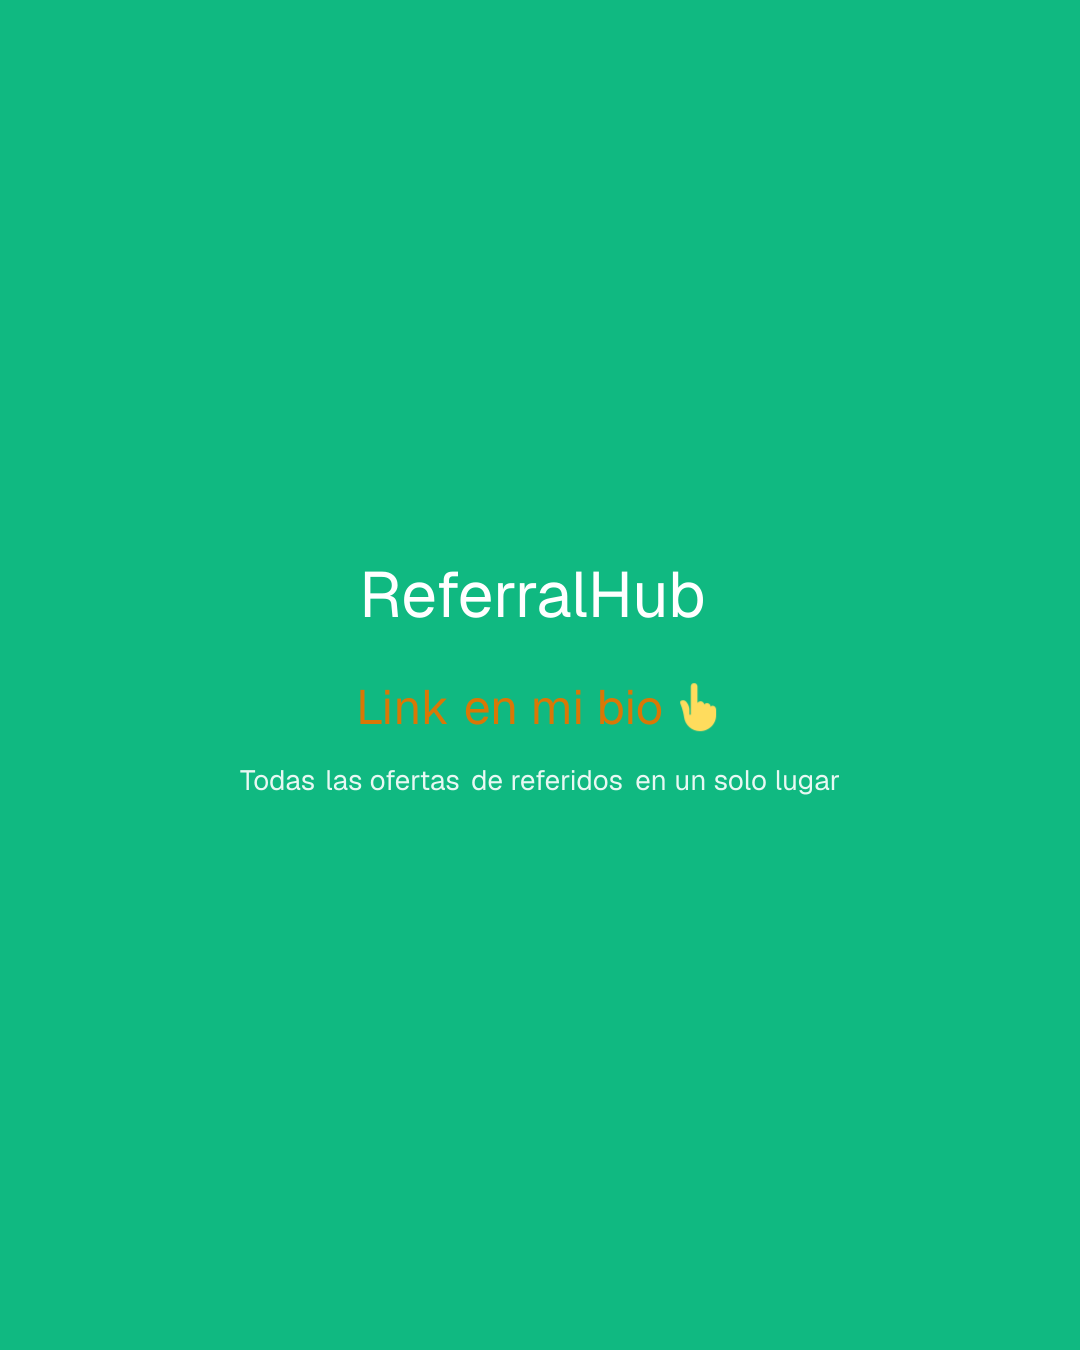
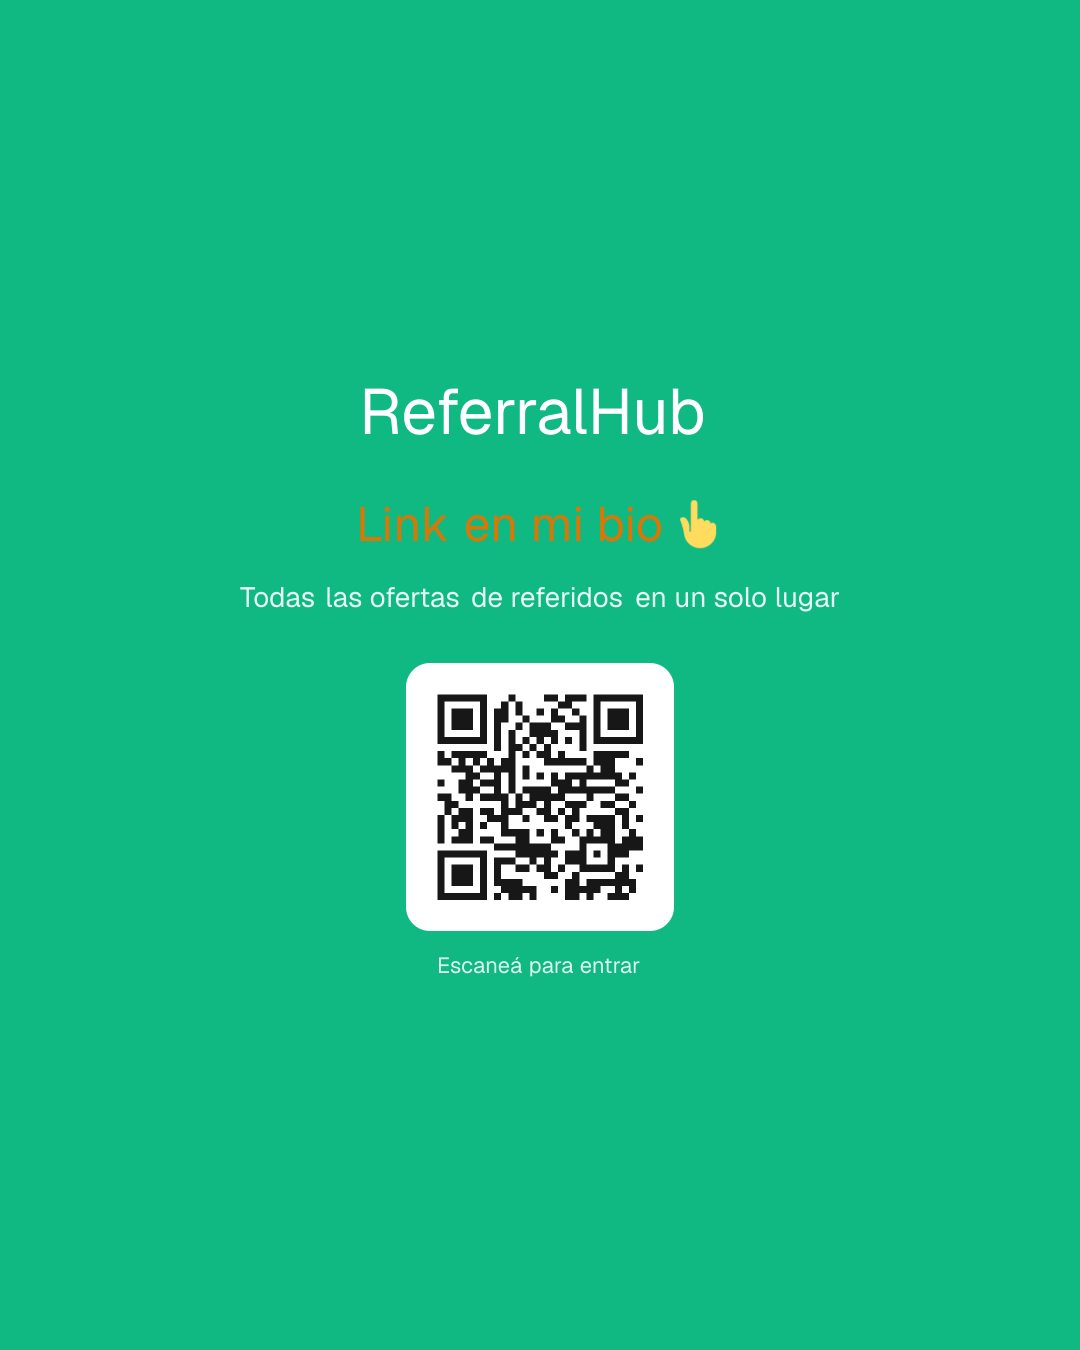
Add QR code to carousel CTA slide
Instagram doesn't support clickable links inside feed/carousel images,
so add a scannable QR code (pointing at the site) to the CTA slide as
a workaround alongside the existing "link in bio" callout. Uses the
qrcode package to render a data URL, embedded via Satori's <img>
support in generate-carousel.ts.

Changed region(s): [[0.2139, 0.3733, 0.7639, 0.7467], [0.3361, 0.28, 0.6417, 0.3422]]

diff --git a/scripts/generate-carousel.ts b/scripts/generate-carousel.ts
@@ -6,6 +6,7 @@
 import { ImageResponse } from "@vercel/og";
 import { mkdir, writeFile } from "node:fs/promises";
 import React from "react";
+import QRCode from "qrcode";
 
 const h = React.createElement;
 
@@ -13,11 +14,12 @@ const EMERALD = "#10b981";
 const AMBER = "#d97706";
 const WIDTH = 1080;
 const HEIGHT = 1350;
+const SITE_URL = "https://referalhub.vercel.app";
 
 type SlideContent =
   | { kind: "cover"; title: string; subtitle: string }
   | { kind: "offer"; emoji: string; name: string; bonus: string; description: string }
-  | { kind: "cta"; heading: string; sub: string; tagline: string };
+  | { kind: "cta"; heading: string; sub: string; tagline: string; qrCodeDataUrl: string };
 
 function brandMark() {
   return h(
@@ -49,7 +51,27 @@ function renderSlide(content: SlideContent) {
       },
       h("div", { style: { fontSize: 64, fontWeight: 700 } }, content.heading),
       h("div", { style: { fontSize: 48, fontWeight: 700, color: AMBER, marginTop: 40 } }, content.sub),
-      h("div", { style: { fontSize: 28, marginTop: 24, opacity: 0.9 } }, content.tagline)
+      h("div", { style: { fontSize: 28, marginTop: 24, opacity: 0.9 } }, content.tagline),
+      h(
+        "div",
+        {
+          style: {
+            display: "flex",
+            flexDirection: "column",
+            alignItems: "center",
+            backgroundColor: "white",
+            padding: 24,
+            borderRadius: 24,
+            marginTop: 48,
+          },
+        },
+        h("img", {
+          src: content.qrCodeDataUrl,
+          width: 220,
+          height: 220,
+        })
+      ),
+      h("div", { style: { fontSize: 22, marginTop: 20, opacity: 0.85 } }, "Escaneá para entrar")
     );
   }
 
@@ -201,6 +223,7 @@ const slides: { file: string; content: SlideContent }[] = [
       heading: "ReferralHub",
       sub: "Link en mi bio 👆",
       tagline: "Todas las ofertas de referidos en un solo lugar",
+      qrCodeDataUrl: "", // filled in by main() — Instagram doesn't allow clickable links on images, so this QR is the workaround
     },
   },
 ];
@@ -208,6 +231,15 @@ const slides: { file: string; content: SlideContent }[] = [
 async function main() {
   const outDir = "public/social/carousel";
   await mkdir(outDir, { recursive: true });
+
+  const ctaSlide = slides.find((slide) => slide.content.kind === "cta");
+  if (ctaSlide && ctaSlide.content.kind === "cta") {
+    ctaSlide.content.qrCodeDataUrl = await QRCode.toDataURL(SITE_URL, {
+      width: 440, // 2x for crispness at the 220px render size
+      margin: 1,
+      color: { dark: "#171717", light: "#ffffff" },
+    });
+  }
 
   for (const slide of slides) {
     const response = new ImageResponse(renderSlide(slide.content) as React.ReactElement, {
